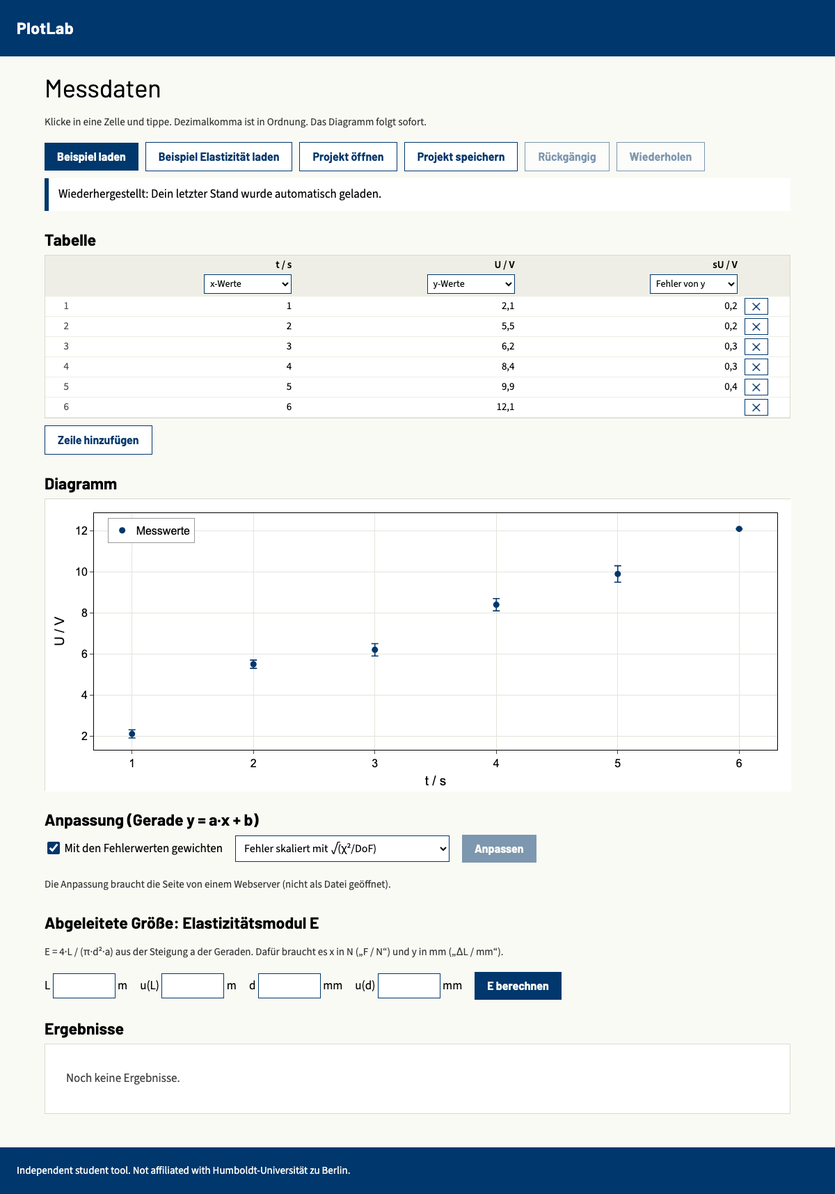
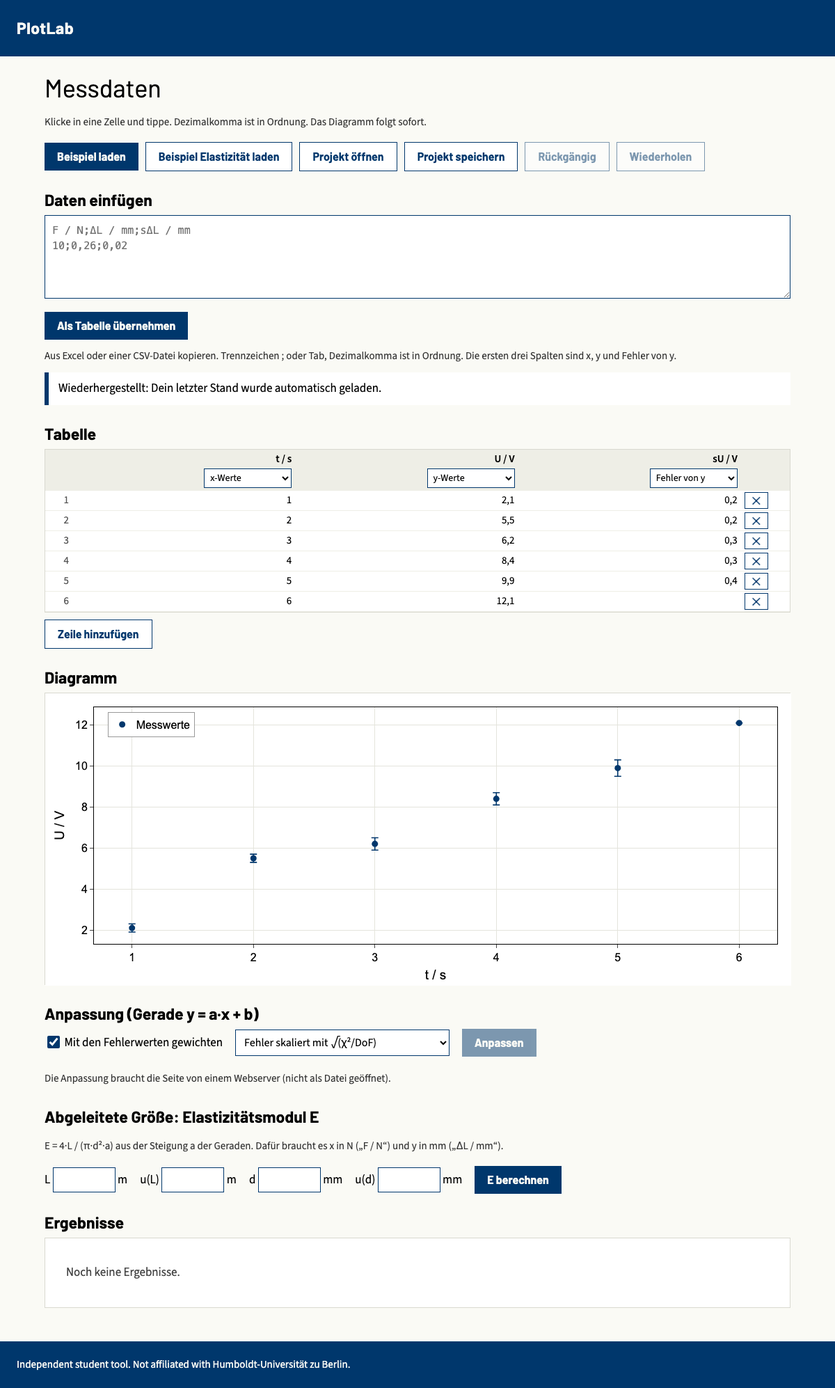
Close Phase 1: timed P3 run, paste box, Phase 1 report, Phase 2 steps

diff --git a/app/index.html b/app/index.html
@@ -47,6 +47,7 @@
   td input { width:100%; min-width:90px; border:0; border-radius:0; padding:3px 10px; font:inherit; text-align:right; background:transparent; }
   td input:focus { outline:2px solid var(--blue); outline-offset:-2px; background:#fff; }
   td input.bad { background:#fde8ea; outline:2px solid #B00020; outline-offset:-2px; }
+  textarea { width:100%; height:120px; font:15px/22px ui-monospace, Menlo, Consolas, monospace; padding:10px; border:1px solid var(--blue); border-radius:0; background:#fff; resize:vertical; }
   #plot { background:#fff; border:1px solid var(--line); height:420px; }
   #results { background:#fff; border:1px solid var(--line); padding:12px 16px; }
   .result.stale .res { opacity:.5; }
@@ -70,6 +71,9 @@
     <button class="btn alt" id="undo" disabled title="Strg/Cmd+Z">Rückgängig</button>
     <button class="btn alt" id="redo" disabled title="Umschalt+Strg/Cmd+Z">Wiederholen</button>
   </div>
+  <h2>Daten einfügen</h2>
+  <textarea id="paste" aria-label="Daten einfügen" spellcheck="false" placeholder="F / N;ΔL / mm;sΔL / mm&#10;10;0,26;0,02"></textarea>
+  <div class="btns"><button class="btn" id="pastego">Als Tabelle übernehmen</button><span class="hint">Aus Excel oder einer CSV-Datei kopieren. Trennzeichen ; oder Tab, Dezimalkomma ist in Ordnung. Die ersten drei Spalten sind x, y und Fehler von y.</span></div>
   <div id="note" class="msg note" role="status" hidden></div>
   <div id="storewarn" class="msg" role="alert" hidden>Automatisches Speichern ist in diesem Browser nicht möglich. Bitte speichere das Projekt mit „Projekt speichern“.</div>
   <div id="msg" class="msg" role="alert" hidden></div>
@@ -104,6 +108,7 @@
 <footer>Independent student tool. Not affiliated with Humboldt-Universität zu Berlin.</footer>
 <script src="../testbuild/vendor/plotly.min.js"></script>
 <script src="../testbuild/round.js"></script>
+<script src="../testbuild/parse.js"></script>
 <script src="project.js"></script>
 <script src="derive.js"></script>
 <script>
@@ -201,8 +206,9 @@ const freshFit = () => proj.results.find(r => r.kind === "fit" && !isStale(proj,
 const uOf = q => (proj.settings.errMethod === "unscaled" && q.uUnscaled !== undefined) ? q.uUnscaled : (q.uScaled ?? q.u);
 function fitDetail(r) {
   const f = new Intl.NumberFormat("de-DE", { maximumSignificantDigits: 6 }), un = proj.settings.errMethod === "unscaled" && r.weighted;
-  const how = !r.weighted ? "ungewichtet; Fehler aus der Streuung der Messpunkte um die Gerade"
-    : un ? "gewichtet mit den Fehlerwerten; Fehler unskaliert (absolute_sigma=True)" : "gewichtet mit den Fehlerwerten; Fehler mit √(χ²/DoF) skaliert (absolute_sigma=False)";
+  const how = !r.weighted ? "Methode der kleinsten Quadrate, ungewichtet; Fehler aus der Streuung der Messpunkte um die Gerade"
+    : un ? "gewichtete Methode der kleinsten Quadrate (Gewichte 1/s²); Fehler unskaliert, direkt aus den Fehlerwerten"
+    : "gewichtete Methode der kleinsten Quadrate (Gewichte 1/s²); Fehler mit √(χ²/DoF) skaliert";
   const rows = r.params.map(q => `<tr><td>${esc(q.name)}</td><td>${f.format(q.value)}</td><td>${f.format(q.uScaled)}</td>${r.weighted ? `<td>${f.format(q.uUnscaled)}</td>` : ""}</tr>`).join("");
   return `<table><thead><tr><th>Parameter</th><th>Wert</th><th>Fehler skaliert</th>${r.weighted ? "<th>Fehler unskaliert</th>" : ""}</tr></thead><tbody>${rows}</tbody></table>` +
     `<div class="detail" data-how>Methode: ${how}. Freiheitsgrade: ${f.format(r.dof)}. ` + (r.weighted ? `χ² = ${f.format(r.chi2)}, χ²/DoF = ${f.format(r.chi2 / r.dof)}.` : `Summe der Abweichungsquadrate = ${f.format(r.ssr)}.`) + "</div>";
@@ -276,6 +282,11 @@ $("example2").onclick = () => {
   const p = newProject(...EXAMPLE2);
   p.settings.young = { L: 1, uL: 0.002, d: 0.5, ud: 0.01 };
   setProject(p);
+};
+$("pastego").onclick = () => {
+  const r = parseTable($("paste").value);
+  if (r.error) return showMsg(r.error);
+  setProject(newProject(r.header, r.rows));
 };
 $("saveproj").onclick = () => {
   const a = document.createElement("a");

diff --git a/docs/progress.md b/docs/progress.md
@@ -1,11 +1,31 @@
 STATUS: RUNNING
-PHASE: 1
+PHASE: 2
 
 Read by every round of the loop (see docs/loop-prompt.md). Keep the first line exactly as `STATUS: RUNNING`, `STATUS: DONE` or `STATUS: BLOCKED`.
 
-## Next steps (Phase 1: foundations plus P3 Elasticity, code in `app/`)
+## Next steps (Phase 2: all Physics 2 experiments P1 to P9, code in `app/`)
 
-Phase 0 is finished (see `docs/phase0-report.md`; its steps are in the Log). Phase 1 builds the real app in `app/`, reusing what `testbuild/` proved (parser, plot, fit worker, rounding, local Pyodide copy). Keep `testbuild/` and its tests working until the app replaces them.
+Phase 1 is finished (see `docs/phase1-report.md`). Phase 2 **assumes P1 to P9** of `docs/lab-assignments-checklist.md` because the real experiment list from Luis's daughter is not known yet; revise these steps when she answers. Every number test uses hand calculations or textbook table values written separately from the app, never the app's own output. Every step ends with `bash scripts/check.sh` passing, a browser test with a screenshot, and one bad-input check. Also move what the app borrows from `testbuild/` (fonts, Plotly, round.js, parse.js, fit worker, Pyodide) into `app/` at the first step that touches it, and keep `testbuild/` tests passing until then.
+
+- [ ] 1. Formula columns, values only (P2, P5, P6): a new column defined by a formula over other columns (`+ - * / ^`, `sqrt`, `ln`, `log10`, `pi`, German column names, decimal comma). Recalculates when data changes, saved in the project, undo works. Test: r² and d·c columns from the P5 sheet against hand values; a formula with an unknown column name or a division by zero shows a clear message.
+- [ ] 2. Error propagation for formula columns (P2, P5, P6): optional uncertainty column per formula result, Gaussian propagation from the uncertainties of the inputs (independent inputs). Test: product, quotient and square-root cases against hand-derived partial derivatives, including the Wheatstone bridge Rx = R1·R2/R3 case.
+- [ ] 3. Mean, standard deviation (n or n−1, chosen by the student), standard error, and random plus instrument error combined in quadrature (P2 volume measurement, P1). Test: a 10-value sample against hand values for both choices of n; result lines in HU format.
+- [ ] 4. Weighted mean with uncertainty and an overlap check of several results (P2). Test: three volume results with different uncertainties against hand values (w = 1/u², mean, 1/√Σw); the overlap verdict (within k·u) matches the hand check.
+- [ ] 5. Frequency table (absolute, relative, cumulative) and histogram with the fitted normal curve (P1). Test: 30 hand-made readings, bin counts and normal-curve height against hand values; axis labels carry quantity and unit.
+- [ ] 6. Cumulative probability plot with the 16 % and 84 % read-off (P1). Test: values read off the hand-made cumulative table; the plot marks both levels.
+- [ ] 7. General derived quantity from fit parameters (P3, P4, P5, P9): a formula over a, b, u(a), u(b) with propagation; the E of step 6 of Phase 1 becomes the first template of it. Test: the P3 numbers of `tests/phase1-step6-elasticity.mjs` are reproduced exactly (E = (201 ± 8) GPa), plus one new case (g from the slope of T² against l, P9) by hand.
+- [ ] 8. Fit a chosen x range and several y series in one plot (P3 loading and unloading). Test: two series fitted separately against hand values; both lines drawn and named in the legend; the two slopes compared in units of their combined uncertainty.
+- [ ] 9. Calibration line with an unknown read off, with uncertainty (P4, P7): the line fit also returns the covariance of a and b; x0 = (y0 − b)/a with propagated uncertainty. Test: a 6-point calibration and one measured y0 against a hand calculation including the covariance term.
+- [ ] 10. Semi-log axis switch with y error bars (P8). Test: log y axis on the plot data of a decay series; error bars stay visible; a zero or negative y shows a clear message instead of a broken plot.
+- [ ] 11. χ² goodness-of-fit against Poisson and Gauss (P8), statistics via SciPy in the worker: expected counts, χ², degrees of freedom, p-value, and a warning when expected counts are below 5. Test: χ² and expected counts by hand; p-values against the printed χ² table (for example df = 3: 7.815 at p = 0.05).
+- [ ] 12. Confidence interval for a mean with the t distribution (P9). Test: n = 5 sample against hand values with t(0.975; 4) = 2.776 from the table; the result line is (mean ± u) with the interval stated.
+- [ ] 13. Compare a measured and a calculated value with their uncertainties (P6 Wheatstone bridge and grating): difference in units of the combined uncertainty and a plain-language verdict. Test: hand numbers for one agreeing and one disagreeing pair.
+- [ ] 14. Figure export in the app (PNG 2400 px and SVG) moved from the test build, for every plot in Phase 2. Test: as `tests/step6-export.sh` but on the app page, including a semi-log plot.
+- [ ] 15. Template projects, one per experiment: first P1 to P5 (P1 Fehlerverteilung, P2 Volumen, P3 Elastizität, P4 Oberflächenspannung, P5 Polarimetrie und Newtonsche Ringe), a "Vorlage laden" list in the app. Test: loading each template and pressing its steps reproduces the hand-calculated result lines of that experiment.
+- [ ] 16. Templates P6 to P9 (Wheatstone und Gitter, Refraktometer, Radioaktivität, Pendel). Test as step 15.
+- [ ] 17. Phase 2 gate: run every P1 to P9 check, measure the time and actions for each against the Excel steps, write `docs/phase2-report.md`. Things that need R, her real data or her time go under "For Luis". Then write Phase 3 steps from the roadmap.
+
+### Phase 1 steps (done)
 
 - [x] 1. Project model and file: one JSON structure holding raw data, column roles (X, Y, error), analysis settings and results, where each result records which data it was computed from. Save as a downloaded file, open from a file. Test: save, reload, open gives identical data, roles, settings and results.
 - [x] 2. App page in `app/` on the project model: an editable table (type into a cell, add and delete rows). Editing a cell updates the plot at once and marks fit results out of date. Test in a browser: edit a cell, check plot and stale message.
@@ -14,14 +34,15 @@ Phase 0 is finished (see `docs/phase0-report.md`; its steps are in the Log). Pha
 - [x] 5. Column roles chosen by the student (X, Y, y error, x unused), stored in the project, driving plot and fit. Weighted and unweighted line fit with scaled and unscaled errors, χ²/DoF and the method on screen (as in step 3 of Phase 0).
 - [x] 6. P3 Elasticity: a derived quantity from the fitted slope with a propagated uncertainty, in HU format. Read the P3 entry in `docs/lab-assignments-checklist.md` and the research in `docs/research/` for the formula and units. Test with a hand calculation.
 - [x] 7. Weighted-fit numbers checked against an independent reference: NIST linear regression (Norris, unweighted) and hand calculation for the weighted case. R is not installed, so the R comparison in the gate is marked "needs Luis" under Blocked, but do not stop for it.
-- [ ] 8. Timed end-to-end test of P3: open, paste data, set roles, fit, read the result line, save. Record the time of the automated run and the number of clicks, next to the same task in Excel from the checklist. Write `docs/phase1-report.md` with the gate results. Gate items that need R or a real student go under "For Luis". Keep STATUS: RUNNING and write the Phase 2 steps from the roadmap.
+- [x] 8. Timed end-to-end test of P3: open, paste data, set roles, fit, read the result line, save. Record the time of the automated run and the number of clicks, next to the same task in Excel from the checklist. Write `docs/phase1-report.md` with the gate results. Gate items that need R or a real student go under "For Luis". Keep STATUS: RUNNING and write the Phase 2 steps from the roadmap.
 
 ## For Luis
 
 - Phase 0 passed (see `docs/phase0-report.md`). Decision: keep Pyodide + Plotly. Say go to start Phase 1.
 - Ask your daughter for the real HU material listed in the checklist, and show the test build (run `bash testbuild/setup.sh`, then serve `testbuild/` with any web server) to 3-5 lab instructors.
 - Decide where the app will be hosted. It must send long cache headers and compress files (see `docs/phase0-timing.md`).
-- Optional: install R if you want the R cross-check from the roadmap.
+- Optional: install R if you want the R cross-check from the roadmap (needed to close the "matches R" half of the Phase 1 gate; NIST and a hand calculation already match to 9 digits).
+- Phase 1 gate leftovers that only people can close: (1) time one real student doing P3 in the app and in her usual tool (the report has 9 actions measured against about 40 in Excel estimated); (2) ask whether the German wording and the result line are clear to her; (3) the real list of Physics 2 experiments, since Phase 2 assumes P1 to P9.
 
 ## Blocked
 
@@ -53,3 +74,4 @@ Phase 0 is finished (see `docs/phase0-report.md`; its steps are in the Log). Pha
 - 2026-10-14, security fix on step 5: an automatic review found that the fit details in `app/index.html` printed the degrees of freedom from a project file without escaping, so a hand-edited project file (or damaged autosave) could run a script in the page. It is now formatted as a number. `tests/phase1-step5-fit.sh` now opens a project file with script text in every result field, also after an autosave restore: with the old code the script ran (test failed), with the fix nothing is injected (test passes). Also made the test server answer cleanly after a failed request. All 12 checks pass.
 - 2026-10-14, Phase 1 step 6: A student can now load "Beispiel Elastizität" (steel wire, load F in N against extension in mm), fit the line, enter the wire length L and diameter d with their uncertainties, press "E berechnen" and read the Young's modulus, for example E = (201 ± 8) GPa. The formula is E = 4·L / (π·d²·a) with the fitted slope a; the uncertainty adds the relative errors of L, 2·d and a in quadrature, and the page shows each share (0,2 %, 4 %, 1,15 %). It uses the scaled or unscaled slope error, whichever is selected (unscaled gives (201 ± 9) GPa). E goes out of date when data, weighting or an input changes; undo and reload keep it. Tested in a real browser (`tests/phase1-step6-elasticity.sh`) against numbers calculated separately in plain Python from the formulas, not by the app: a = 0,0252857 mm/N, u(a) 0,000290 (scaled) and 0,000478 (unscaled), χ²/DoF 0,369, E = 201,416 GPa, u(E) = 8,39 (scaled) and 8,92 (unscaled). The formula alone is also checked on a case that can be done in the head (E = 4/π GPa, relative error 0,3). Bad cases give clear messages: no fit yet or stale fit, an empty or non-numeric input, wrong column units (needs N and mm). All 13 checks in `scripts/check.sh` pass. Screenshots `evidence/phase1-step6-elasticity.png` and `-error.png` judged OK. Not yet: the shear modulus from oscillation periods and the loading/unloading comparison from the P3 sheet; a general formula column with error propagation comes in Phase 2.
 - 2026-10-14, Phase 1 step 7: The line fit was checked against independent references and the check found a real weakness: the old fit (SciPy `curve_fit`, which iterates) matched the official NIST dataset Norris (36 points) only to 7.6 digits for the intercept and 5.5 digits for the slope error. The straight-line fit now solves the problem directly (SVD least squares in the Python worker), and `curve_fit` stays for Michaelis-Menten and the NIST nonlinear checks. Result against NIST certified values: slope 1,00211681802 and intercept -0,262323073774 correct to 9 or more digits, standard errors (0,000429796848 and 0,232818234301) 9 digits, residual sum of squares 26,6173985294 and 34 degrees of freedom exact. Weighted fits: (1) with equal errors the scaled-error weighted fit must equal the unweighted one, so it matches NIST too (9 digits); (2) a 7-point case with unequal errors checked against a separate Python script (`tests/reference/weighted_line.py`, exact fractions, other formulas): a = 1,86588504, b = 0,85012444, scaled errors 0,0736838 and 0,151466, unscaled 0,0512457 and 0,105342, χ² 10,3371, all 9 digits. On screen: Norris reads a = (1,0021 ± 0,0004), b = (-0,26 ± 0,23); the 7-point case a = (1,87 ± 0,07) scaled and (1,87 ± 0,05) unscaled, both rounded by hand. Test: `tests/phase1-step7-reference.sh` (failed with the old code, passes now); all 14 checks in `scripts/check.sh` pass. Screenshots `evidence/phase1-step7-norris.png`, `-weighted.png` judged OK. Not yet: R is not installed, so the R comparison stays open (see Blocked); NIST has no certified weighted linear dataset, so the weighted case rests on the hand calculation.
+- 2026-10-14, Phase 1 step 8 and Phase 1 gate: P3 Elasticity now runs start to finish in the real page: paste six German-format rows, press "Anpassen", enter L, u(L), d, u(d), press "E berechnen", save. Result: a = (0,02529 ± 0,00029) mm/N, E = (201 ± 8) GPa (the hand-calculated numbers). Measured by `tests/phase1-step8-timed.sh`: 9 user actions, 219 to 291 ms of machine time over four runs (Apple M5, headless Chromium, local server), plus 4.6 to 5.3 s once per visit for Python to load. The same task in Excel is about 40 actions, but that count is my estimate from the steps, not a measurement with a person. Edit, undo and save/reopen in a fresh browser profile keep everything (checked in the same test). Added a "Daten einfügen" box so a student can start with their own numbers (before, only examples or a saved project were possible), and the fit details no longer name `absolute_sigma`: they say "gewichtete Methode der kleinsten Quadrate (Gewichte 1/s²); Fehler mit √(χ²/DoF) skaliert" or "unskaliert, direkt aus den Fehlerwerten". Bad pastes (empty, letters) give clear messages. All 15 checks in `scripts/check.sh` pass; screenshot `evidence/phase1-step8-timed.png` judged OK. Wrote `docs/phase1-report.md`: gate passed except the R comparison and a human timing, both under "For Luis". PHASE is now 2; Phase 2 steps (assuming P1 to P9) written above.

diff --git a/docs/phase1-report.md b/docs/phase1-report.md
@@ -1,0 +1,60 @@
+# Phase 1 report: foundations plus P3 Elasticity
+
+Date: 2026-10-14. Code in `app/`, checks in `tests/`, all run by `bash scripts/check.sh` (15 checks, all pass). Evidence is in `evidence/` and the tests named below.
+
+## Verdict
+
+**Two of the three gate items pass; the R half of the second is open.** The app can do P3 Elasticity from pasted data to a saved project with a result line in HU format. Open and not provable without people: the R cross-check (R is not installed), a human timing against Excel, and whether a real student finds it clear. These are under "For Luis" in `docs/progress.md`. STATUS stays RUNNING because Phase 2 can start without them.
+
+## Gate checks
+
+| Gate check | Result | Evidence |
+|---|---|---|
+| P3 works start to finish, faster than in Excel | **Pass on number of actions; time against Excel is estimated, not measured.** See the next section. | `tests/phase1-step8-timed.sh`, `evidence/phase1-step8-timed.png`, `tests/phase1-step6-elasticity.sh` |
+| Weighted-fit results match R and NIST | **NIST: pass. R: open.** Line fit against NIST Norris (36 points): slope, intercept, their errors and the residual sum of squares agree to 9 or more digits. Weighted fit: with equal errors it equals the unweighted NIST result (9 digits); with unequal errors it matches a separate exact-fraction Python script to 9 digits. NIST has no certified weighted line data, so that case rests on the hand calculation. R is not installed. | `tests/phase1-step7-reference.sh`, `tests/reference/weighted_line.py`, `evidence/phase1-step7-*.png` |
+| Edit a cell: plot and fit update. Undo: they revert. Save, close, reopen: nothing lost | **Pass.** Edit gives a new plot and marks both results out of date; undo restores plot and makes results fresh again. A project saved to a file and opened in a brand-new browser profile has identical data, roles, settings, inputs and results, all fresh. Also: autosave survives reload. | `tests/phase1-step8-timed.sh`, `tests/phase1-step2-table.sh`, `-step3-undo.sh`, `-step4-autosave.sh`, `tests/step1-project.sh` |
+
+Other Phase 1 "Build" items, all done and tested: project file with data, column roles, settings and results with data fingerprints; editable table with live plot; undo and redo; autosave with a "Wiederhergestellt" note; German numbers in and out (decimal comma, semicolon or tab paste); weighted and unweighted line fit with scaled and unscaled errors, χ²/DoF and the method named on screen; result line (value ± u) unit; results go out of date when data changes; clear German messages for bad paste, bad cells, error value 0, too few points, damaged files, wrong units.
+
+## The timed P3 run
+
+What is measured: `tests/phase1-step8-timed.sh` drives the real page in headless Chromium on an Apple M5 (10 cores, 16 GB), local server. It pastes the six-row German-format P3 table, presses "Anpassen", types L, u(L), d, u(d), presses "E berechnen", reads the three result lines and saves the project.
+
+- **9 user actions** (a click on a button or list, or one paste or entry into one field; focusing a field is not counted): paste, "Als Tabelle übernehmen", "Anpassen", 4 entries, "E berechnen", "Projekt speichern". Roles (x, y, error) and weighting are right by default, so no action is needed for them.
+- **Machine time of that run: 219 to 291 ms** (four runs: 291, 267, 226, 219 ms). This is the computer's time, not a person's.
+- **Once per visit, before the first fit: 4.6 to 5.3 s** until Python is ready (local server, nothing downloaded over a network). On a first real visit add the download (about 24.7 MB compressed, see `docs/phase0-report.md`).
+- Result on screen: a = (0,02529 ± 0,00029) mm/N, b = (0,007 ± 0,011) mm, E = (201 ± 8) GPa. These equal the numbers calculated separately by hand in step 6.
+
+What the same task takes in Excel: **estimated, not measured with a person.** I listed the steps a student has to do in German Excel for the same result (a weighted slope with per-point error bars, as the lab sheet asks, and E with its uncertainty):
+
+| Part | Excel actions (estimate) |
+|---|---|
+| Paste the data | 1 |
+| Weighted slope and intercept with errors: Excel has no weighted fit, so helper cells for 1/s², Σw, Σwx, Σwy, Σwx², Σwxy, determinant, a, b, u(a), u(b), χ², scaling (formulas typed or copied) | about 15 |
+| Chart: scatter plot, axis titles with units, custom y error bars from a range, fit line as a second series | about 16 |
+| E, its uncertainty, and the L, u(L), d, u(d) inputs (formulas) | about 6 |
+| Round to (value ± u) by hand, type the result line | about 2 |
+| Save | 1 |
+| **Total** | **about 40 (lower bound about 30)** |
+
+For comparison, an unweighted fit in Excel with `RGP` (LINEST) is quicker, about 10 actions, but it ignores the error values and gives no per-point error bars without the chart steps above, which is the case the checklist says Excel cannot do. So: 9 actions in the app against about 40 in Excel is a measured count against an estimated one. If a person needs 2 to 4 seconds per action, the app takes roughly 20 to 40 seconds and Excel 1.5 to 3 minutes; that conversion is a guess, not a measurement. QtiPlot was not compared at all.
+
+Limits of this claim: a student who has never seen the app needs more time to find the buttons; the typed data in the real lab has more rows; the first visit is slow (Python load, download). A timed run with a real student is under "For Luis".
+
+## Changed in this round
+
+- The fit details text no longer names `absolute_sigma` (the line fit is solved directly now). It says "gewichtete Methode der kleinsten Quadrate (Gewichte 1/s²); Fehler mit √(χ²/DoF) skaliert" or "Fehler unskaliert, direkt aus den Fehlerwerten", and "Methode der kleinsten Quadrate, ungewichtet" for the unweighted fit. Test wording in `tests/phase1-step5-fit.mjs` updated, and it now checks that "absolute_sigma" is not shown.
+- New "Daten einfügen" box in the app: paste from Excel or CSV and press "Als Tabelle übernehmen". Before, the app could only load the two examples or a saved project, so a student could not start with their own numbers. Limit: pressing it replaces the current table and clears undo (the same as loading an example).
+
+## Known gaps carried into Phase 2
+
+- The app still borrows fonts, Plotly, rounding and the parser from `testbuild/`; the fit worker and Pyodide too.
+- No figure export in the app page yet (the test build has PNG and SVG).
+- P3 only covers the Young's modulus from the slope. The loading versus unloading comparison and the shear modulus are not done.
+- The derived quantity is hard-wired to E; Phase 2 makes it a general formula.
+- Only straight lines in the app; no Michaelis-Menten (not needed for Physics 2).
+- No R cross-check; no statsmodels yet.
+
+## Phase 2 assumption
+
+Phase 2 assumes the Physics 2 experiments are P1 to P9 of `docs/lab-assignments-checklist.md`, because the real list from Luis's daughter is not known yet. If her list differs, the steps are revised.

diff --git a/CHANGELOG.md b/CHANGELOG.md
@@ -2,6 +2,13 @@
 
 Written in plain language for people who do not read code. Newest entry on top.
 
+## 2026-10-14: Elasticity (P3) works start to finish, and you can paste your own data
+
+- **What a student can now do:** paste a table from Excel or a CSV file (semicolon or tab, decimal comma) into the new box "Daten einfügen", press "Als Tabelle übernehmen", fit, enter wire length and diameter, and get E = (201 ± 8) GPa, then save the project. That is 9 clicks and entries. The same work in Excel is about 40 by my count of the steps (an estimate, not timed with a person). Before, the app could only load two examples or a saved project.
+- **Also changed:** the fit details now say exactly what is done ("gewichtete Methode der kleinsten Quadrate (Gewichte 1/s²); Fehler mit √(χ²/DoF) skaliert", or unscaled) instead of naming a SciPy setting that the straight-line fit no longer uses.
+- **Tested:** `tests/phase1-step8-timed.sh` runs the whole task in the real page (219 to 291 ms of computer time, plus about 5 s once for Python to start), then changes a cell and undoes it, then saves and reopens the project in a fresh browser: nothing is lost. Empty or non-numeric pasted data shows a clear message. Phase 1 report: `docs/phase1-report.md`.
+- **Not covered yet:** no comparison with R (not installed) and no timing with a real student. Pasting replaces the table and clears undo. Phase 2 (all Physics 2 experiments, assuming P1 to P9) starts next.
+
 ## 2026-10-14: Line fit checked against official reference numbers, and made more exact
 
 - **What changed for a student:** the straight-line fit now gives the same numbers as the official NIST reference data set "Norris" to 9 digits (before: 5 to 7 digits for some values, which would not show in a lab report but is not good enough for a tool that claims correct numbers). Michaelis-Menten is unchanged.
